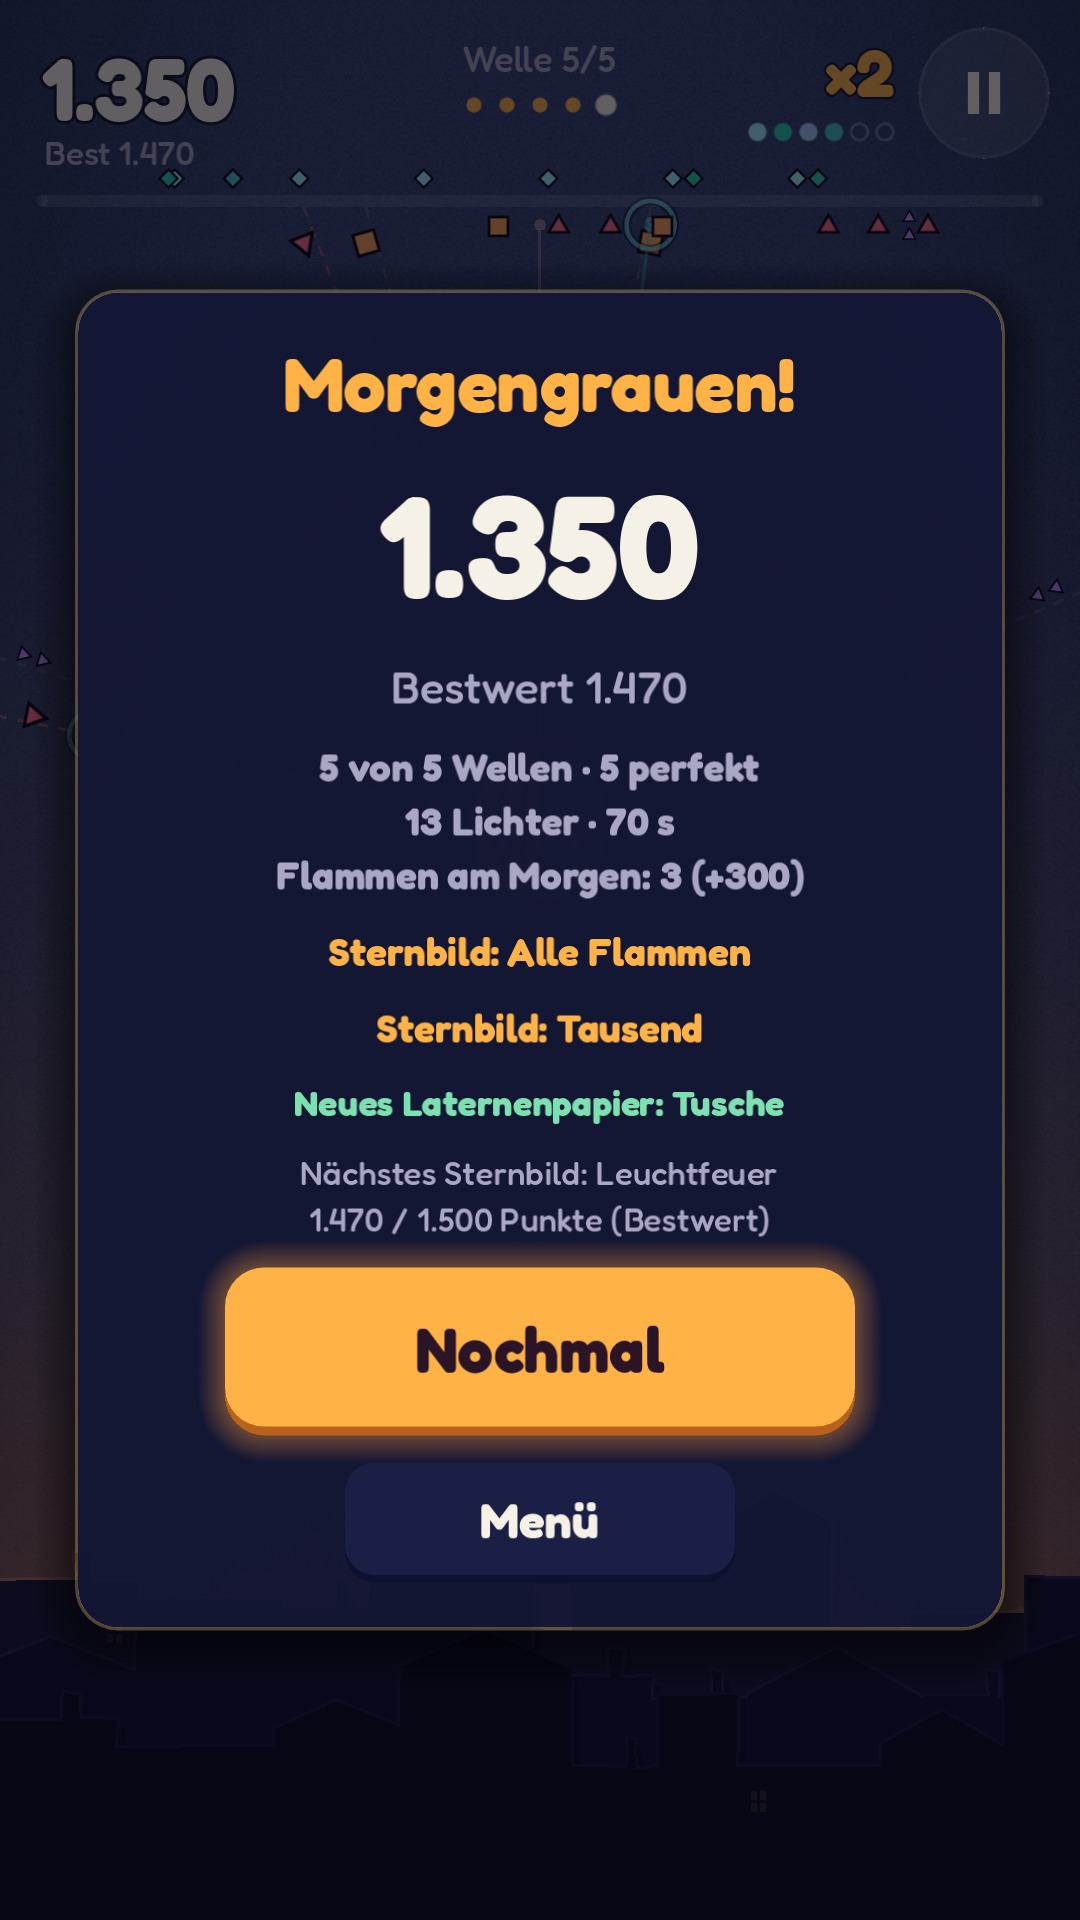
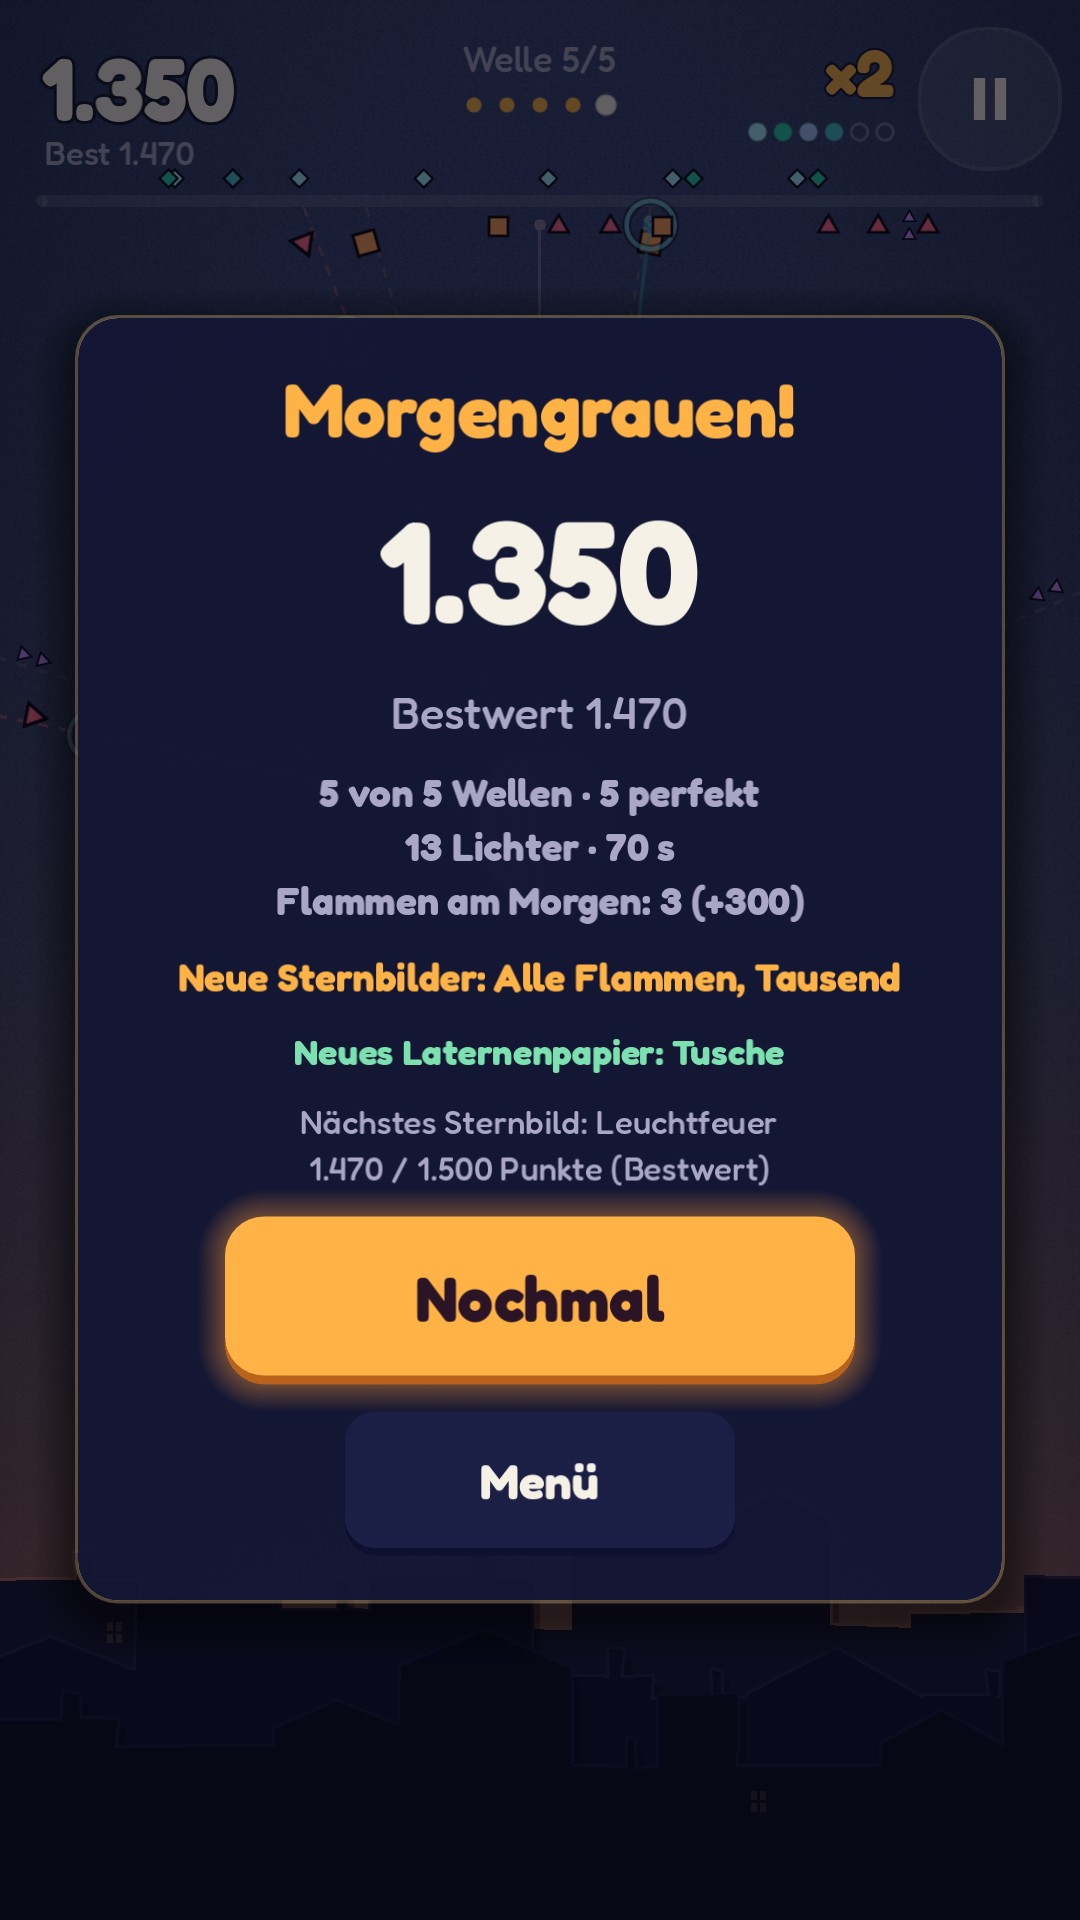
NACHHALL 0.7.0 "Polish": review fixes, accessibility, battery, release tooling
Version 0.7.0 (code 70) in the project and all Android presets.

This milestone bundles the work since 0.6.0 (see CHANGELOG):
- Two independent reviews worked off, every finding confirmed before the
  fix: thumb hand-over and two-light cap, consent refreshed at every
  launch in the ads test build (UMP 4), cancellable consent flow, safer
  saves (retry, last good copy), sound only with focus, results card fit,
  texts, old saves, history chart
- Accessibility: large text, 48 dp touch targets everywhere, really calm
  "minimal" effects (no flashes, shockwaves or flicker; <= 2 Hz), safe
  areas on every page, rules page
- Battery: screen on only while a night is played, 30 fps in pause and
  results on phones, cached safe-area query, menu bot planning in slices
- Release tooling: App Bundle preset and verification script, CI checks
  for the default APK and the bundle, layout check, store screenshots
  refreshed

Checked: tests 173/173, layout check 11 screens x 4 sizes (normal and
large text) clean, soak 30 nights flat, smoke test of the exported build
OK. Built and verified: debug APK (60,203,751 bytes, only VIBRATE, no ads
SDK), ads test APK (Google test ids only), release bundle (valid, not
debuggable, signed with a throwaway key for the check only). Nothing was
run on a real Android device or emulator.

Claude-Session: https://claude.ai/code/session_01EkExG2E5hRojVVTeydidGd

diff --git a/GAME_DESIGN.md b/GAME_DESIGN.md
@@ -30,7 +30,8 @@ Eine **Nacht** = 5 Wellen. Drei Flammen. Ohne Flammen ist die Nacht vorbei; wer 
 | Nachglühen | 1,0 s | macht „zwei Orte zugleich“ zur echten Aufgabe |
 | Echo | wiederholt Weg **und** Trefferzeitpunkte exakt (feste Ereignisse) | vorhersagbar, monoton |
 | Multiplikator | nach Zahl der Lichter: ×6 / ×4 / ×3 / ×2 / ×1,5 / ×1; max. 6 Lichter je Welle | Push-your-luck |
-| Zweiter Finger | entzündet nach bewusstem Zug (≥ 40 px) ein zweites Licht im selben Lauf; zählt wie ein Lauf | Multitouch mit Nutzen, kein Exploit |
+| Zweiter Finger | entzündet nach bewusstem Zug (≥ 40 px) ein zweites Licht im selben Lauf; zählt wie ein Lauf; höchstens zwei Lichter gleichzeitig | Multitouch mit Nutzen, kein Exploit |
+| Daumenwechsel | hebt der lenkende Finger ab, übernimmt ein schon ruhender Finger sein Licht (kein neues Licht, nichts friert ein) | Umgreifen mit beiden Daumen ist normal |
 | Leben | 3 Flammen; Durchgekommene kosten beim Kassieren je eine | Risiko ist sichtbar an der Laterne |
 | Punkte | normal 10, Zwilling 15, gepanzert 25 | |
 
@@ -75,6 +76,18 @@ Streuung, damit das Onboarding ungestört bleibt. Bot-Belege: `docs/playtests/EC
 - Fehleingaben: Startring (bewusster Zug), verbrauchte Finger nach Laufende, Kassieren als eigener Button,
   Neustart-Sperre 0,9 s auf dem Ergebnis-Bildschirm.
 
+## 5a. Barrierefreiheit (Stand 0.7)
+- **Form vor Farbe:** Schatten-Typen, Echo-Nummern, Morgengrauen im Verlauf (Sonne) sind auch ohne Farbe
+  unterscheidbar; Farbsehschwächen mit dem Debug-Simulator geprüft (`docs/art/ART_REVIEW_0.4.md`).
+- **Effekte voll / reduziert / minimal:** „minimal“ ohne Wackeln, Blitze, Druckwellen und Flackern; kein Element
+  blinkt schneller als 2 Hz. Schlagringe bleiben als ruhige Rückmeldung (sie sind Spielinformation).
+- **Schrift normal / groß** (+20 % für Menüs, Karten, Lehr-Zettel); der HUD im Lauf bleibt bewusst fest.
+- **Touch-Ziele ≥ 48 dp** auf 360-dp-Telefonen (`UiTheme.TOUCH_MIN`), sichere Bildschirmränder auf allen Seiten.
+- **Ohne Ton spielbar** (alles Hörbare auch sichtbar), Vibration abschaltbar, Lautstärken getrennt.
+- **Motorik:** relative Steuerung mit drei Empfindlichkeiten, Daumenwechsel ohne Strafe, zweites Licht abschaltbar,
+  bewusste Gesten statt Antippen für folgenreiche Aktionen (Startring, Kassieren-Knopf).
+- Nicht vorhanden: Bildschirmleser-Unterstützung (Godot 4.7 bietet sie auf Android nicht).
+
 ## 6. Onboarding (ohne Tutorial-Bildschirme)
 Die Lehr-Welle lehrt selbst. Hinweise erscheinen einmalig im Moment, in dem sie gebraucht werden (gespeichert);
 als Zettel in der nächsten Pause, wobei der neueste gewinnt (ein Zettel gilt erst nach 1 s Sichtbarkeit als gelesen):
@@ -95,8 +108,8 @@ Kassieren-Button erst angeboten, nachdem man ein Echo gesehen hat.
   **Leitmotiv**: reihum Ketten, Zangen oder Regen – im Menü angekündigt, kein Streak, keine Strafe fürs Auslassen.
 - **Nächstes Ziel** auf der Ergebniskarte: das nächstliegende offene Sternbild mit Fortschritt („18 / 25 perfekte
   Wellen“) – konkret, ohne Uhr und ohne Druck.
-- **Nacht-Historie** auf der Seite „Sternbilder“: die letzten 15 Nächte als Balken (warm = Morgengrauen), Bestwert-Linie,
-  Durchschnitt der letzten 10 – Fortschritt sichtbar machen statt Tage zählen.
+- **Nacht-Historie** auf der Seite „Sternbilder“: die letzten 15 Nächte als Balken (warm mit Sonne = Morgengrauen, Ring =
+  Vollmond), Bestwert-Linie, Durchschnitt der letzten 10 – Fortschritt sichtbar machen statt Tage zählen.
 - Persönlicher Bestwert je Modus, Statistiken auf der Seite „Sternbilder“.
 - **Sternbilder** (10 Achievements) schalten **rein kosmetische** Laternenpapiere frei – kein Spielvorteil.
 - **Vollmond** (schwerer, freigeschaltet durch das erste Morgengrauen) als Ziel für Geübte.
@@ -104,9 +117,9 @@ Kassieren-Button erst angeboten, nachdem man ein Echo gesehen hat.
 
 ## 9. Werbung (umgesetzt als Vorschau in 0.6, ADR 0004)
 - Nie während eines Laufs, nie direkt nach dem ersten Start, nie bei jedem Verlust.
-- Neue Spieler: die ersten 5 Nächte überhaupt werbefrei; pro Sitzung frühestens nach 3 Nächten, danach höchstens jede
-  4. Nacht und nie öfter als alle 5 Minuten (`AdPolicy`, getestet; ungünstigster Fall ≤ 12/h – die ursprünglichen
-  3 Minuten hätten verlierenden Spielern bis zu 20/h erlaubt). Nur beim Verlassen der Ergebniskarte, nie beim Abbruch
+- Neue Spieler: die ersten 5 Nächte überhaupt werbefrei; pro Sitzung frühestens nach der 4. Nacht, danach höchstens
+  jede 4. Nacht und nie öfter als alle 5 Minuten, auch über App-Neustarts (`AdPolicy`, getestet; ungünstigster Fall
+  ≤ 12/h – die ursprünglichen 3 Minuten hätten verlierenden Spielern bis zu 20/h erlaubt). Nur beim Verlassen der Ergebniskarte, nie beim Abbruch
   über das Pausemenü. Einwilligung wird erst nach der zweiten Nacht erfragt, nicht beim ersten Start;
   Rewarded nur auf Wunsch und rein kosmetisch (ein gesperrtes Laternenpapier eine Nacht lang). Werbung vollständig
   abschaltbar; Spiel funktioniert ohne Netz. Details und Frequenz-Analyse: `docs/compliance/ADS_AND_CONSENT.md`.

diff --git a/ARCHITECTURE.md b/ARCHITECTURE.md
@@ -76,8 +76,12 @@ dass alte Runden freigegeben werden).
 
 ## Speicherstand
 `SaveStore`: ein JSON-Dokument in `user://save.json` mit Schema-Version (aktuell 2). Schreiben über Temp-Datei +
-Umbenennen (atomar). Unbekannte Schlüssel fallen weg, fehlende werden ergänzt, defekte Dateien werden beiseitegelegt.
-Bei App-Pause wird sofort gespeichert. Debug-Builds können per Startargument `save=<datei>` (und `fresh_save`) eine
+Umbenennen (atomar); die vorherige Datei bleibt als `save.json.bak` (letzte gute Kopie – GDScript kann kein fsync,
+nach einem Stromausfall kann die neueste Datei leer sein). Laden: Hauptdatei, sonst die Kopie, sonst Standardwerte;
+defekte Dateien werden beiseitegelegt (`.corrupt`). Unbekannte Schlüssel fallen weg, fehlende werden ergänzt,
+Sternbilder, die die Statistik belegt, werden nachgetragen (`Progression.backfill`). Änderungen werden am Ende des
+Frames gebündelt gespeichert; nach einem fehlgeschlagenen Schreiben versucht es die nächste Änderung erneut. Bei
+App-Pause wird sofort gespeichert. Debug-Builds können per Startargument `save=<datei>` (und `fresh_save`) eine
 eigene Datei nutzen – Tests, Aufnahmen und Smoke-Test berühren so nie echte Spielstände.
 
 ## Zurück-Taste und sicherer Bereich
@@ -85,14 +89,32 @@ eigene Datei nutzen – Tests, Aufnahmen und Smoke-Test berühren so nie echte S
   (`quit_on_go_back` ist aus). `handle_back()` fragt den obersten sichtbaren Knoten der Gruppe `back_handler`
   (`on_back()`): Spiel → Pause/Weiter, Overlays → schließen, Hauptmenü → App verlassen.
 - `SafeArea` rechnet `DisplayServer.get_display_safe_area()` in Viewport-Einheiten um: HUD und Spielfeld rücken unter
-  eine Kamera-Aussparung, der Kassieren-Button über die Gestenleiste. Tests setzen `SafeArea.override`.
+  eine Kamera-Aussparung, der Kassieren-Button über die Gestenleiste, alle Seiten halten Abstand. Das Ergebnis wird
+  eine Sekunde lang wiederverwendet (auf Android ist jede Abfrage ein JNI-Aufruf, der HUD fragt jeden Frame). Tests
+  setzen `SafeArea.override`.
+- Oberfläche: `UiTheme` baut das Theme im Code; `TOUCH_MIN` (96 Einheiten = 48 dp auf 360-dp-Telefonen) ist die
+  Mindesthöhe jedes Knopfes, `fs()` skaliert Schriftgrößen mit der Einstellung „Schrift“ (`text_scale`, gesetzt von
+  `GameFlow` vor dem ersten Bildschirm).
 
 ## Lebenszyklus (Android)
-- `NOTIFICATION_APPLICATION_PAUSED` / `FOCUS_OUT`: laufender Lauf → Pause-Menü; sonst alle Zeiger abbrechen;
-  `AudioDirector` stummt den Master-Bus; `SaveStore` speichert sofort.
-- Zurückkehren: Ton wieder an (Stummschaltung aus den Einstellungen bleibt), Spiel bleibt pausiert bis „Weiter“.
+- `NOTIFICATION_APPLICATION_PAUSED` / `FOCUS_OUT`: laufender Lauf → Pause-Menü; sonst alle Zeiger abbrechen (sie
+  zählen erst nach dem Abheben wieder); `AudioDirector` stummt den Master-Bus; `SaveStore` speichert sofort.
+- Zurückkehren: Ton erst wieder an, wenn die App fortgesetzt **und** fokussiert ist (nicht hinter dem
+  Sperrbildschirm); die Stummschaltung aus den Einstellungen bleibt; das Spiel bleibt pausiert bis „Weiter“.
+- Akku (nur Telefone): `EchoGame.power_for(state)` – Bildschirm bleibt nur während einer Nacht an
+  (`screen_set_keep_on`), Pause und Ergebnis rendern mit 30 fps; Menüs lassen das Telefon schlafen.
+
+## Werbung (Kurzfassung, Details in ADR 0004 und `docs/compliance/`)
+- `AdService` (Autoload `Ads`) mit Adaptern `none` / `mock` (Platzhalter, Debug) / `admob` (Werbetest-Build, eigenes
+  Plugin). Hauptschalter aus → kein Adapter; ein Adapter startet erst, wenn Werbung eingeschaltet ist (`start()`).
+- AdMob/UMP: Aktualisierung der Einwilligungsinformationen bei jedem Start (ohne Formular); die frische Auskunft
+  synchronisiert den gespeicherten Stand (`consent_info_changed`); Formular nur an einer Pause, abbrechbar
+  (`cancel_consent`); Anzeigen nur mit Entscheidung. `AdPolicy` entscheidet die Frequenz (Zeitabstand auch über
+  Neustarts, `ads.last_interstitial_unix`).
 
 ## Tests und Werkzeuge
 Siehe `TEST_REPORT.md`. Kurz: Unit- und Integrationstests (echte Touch-Pipeline), Compile-Check aller Skripte,
-Bot-Simulationen mit automatisch geprüften Abnahmekriterien, Smoke-Test im exportierten Build, Video-Aufnahme unter
-Xvfb, APK-Prüfung mit aapt2/apksigner, CI auf GitHub Actions.
+Bot-Simulationen mit automatisch geprüften Abnahmekriterien, Smoke-Test im exportierten Build, Dauertest über 30
+Nächte (`tools/soak.sh`), Layout-Prüfung jeder Seite in vier Bildschirmgrößen (`tools/layout_check.sh`),
+Video-Aufnahme unter Xvfb, APK-Prüfung mit aapt2/apksigner, Werbe-SDK-Prüfung (`tools/verify_ads_build.sh`),
+Release-Bundle mit bundletool (`tools/build_release.sh`), CI auf GitHub Actions.

diff --git a/TEST_REPORT.md b/TEST_REPORT.md
@@ -13,8 +13,29 @@ als getestet.** Bots und Simulationen sind keine Menschen.
 | Simulation | `tests/simulation/sim_echo.gd` + `tools/sim/summarize_echo.py` (Abnahmekriterien automatisch) |
 | Bild/Video | `tools/capture.sh` (Xvfb + llvmpipe, Godot Movie Maker): Bot spielt über die echte Touch-Pipeline |
 | APK-Prüfung | `tools/build_android.sh`: aapt2 (Paket, SDK, Berechtigungen, Icon), apksigner (Signatur), Liste nativer Bibliotheken |
-| CI | GitHub Actions `.github/workflows/android.yml`: Tests, Smoke-Test, APK-Export, Artefakt-Upload |
+| CI | GitHub Actions `.github/workflows/android.yml`: Tests, Smoke-Test, APK-Export, Werbe-SDK-Prüfung des Standard-APK, Release-Bundle (Wegwerf-Schlüssel) mit Prüfung, Artefakt-Upload |
 | Android-Gerät / Emulator | **nicht verfügbar** (keine KVM, kein Gerät). Gerätetests: `docs/playtests/DEVICE_TEST_PLAN.md` |
+
+## 0.7.0 (2026-10-23)
+
+| Prüfung | Befehl | Ergebnis |
+|---|---|---|
+| Unit- und Integrationstests | `run_tests.gd` | **173 / 173 grün**. Neu u. a. (jeweils geprüft, dass der Test ohne die Korrektur fehlschlägt): Daumenwechsel übernimmt das Licht (mit und ohne „Zweiter Finger“), höchstens zwei Lichter; Spielstand: letzte gute Kopie nach kaputter neuester Datei, erneuter Versuch nach fehlgeschlagenem Schreiben; Werbung: UMP-4-artiges Fake-Plugin, späterer App-Start bekommt Anzeigen ohne zweite Frage, abgelaufene Entscheidung wird neu erfragt, offline wartet die Pause nicht, verspätete Antwort bleibt synchron, Hauptschalter → kein Backend, Zeitabstand über Neustarts. Außerdem: Effekt-Stufen (minimal ohne Blitze/Druckwellen/Flackern, ≤ 2 Hz), Touch-Ziele ≥ 48 dp auf allen Seiten, sichere Ränder für alle Seiten, große Schrift (alle Seiten passen, Ergebniskarte mit allen Freischaltungen passt), Ton erst mit Fokus, Leihpapier, Texte, alte Spielstände |
+| Layout-Prüfung | `tools/layout_check.sh` und `tools/layout_check.sh <dir> text=1.2` | 11 Seiten × 4 Größen (720×1280, 1080×2400, 480×854, 1536×2048), normal und groß: **kein** Element außerhalb des Bildschirms, keine Überlappung, kein Touch-Ziel unter 48 dp (`docs/media/nachhall_0.7.0_large_text.jpg`) |
+| Dauertest | `tools/soak.sh` (30 Bot-Nächte, echte Spielszene) | `SOAK OK`: Knoten 49 → 49, Objekte +8, Ressourcen 93 → 93, verwaiste Knoten 0, Speicher 41,7 → 42,6 MB, keine Fehler |
+| Smoke-Test exportierter Build | `tools/smoke_exported.sh` | `SMOKE OK` (alle Szenen, Bot-Nacht, Werbe-Platzhalter mit Einwilligung und Interstitial) |
+| Demo-Bot im Menü | Messskript (headless, Desktop, 120 Läufe) | Planung bisher 2,13 ms Median / 3,54 ms Spitze in einem Frame; jetzt 0,31 / 1,18 ms pro Frame, verteilt |
+| Standard-APK | `tools/build_android.sh game builds/android/nachhall-0.7.0-debug.apk debug` | 60.203.751 Bytes, SHA-256 `501b38a2…a707`, versionCode 70, Signatur gültig (Debug), nur `VIBRATE`, **0 Werbe-SDK-Klassen, kein `INTERNET`** |
+| Werbetest-APK | `tools/build_ads_test.sh builds/android/nachhall-adstest-0.7.0-debug.apk` | 70.797.415 Bytes, SHA-256 `350b382c…2e9b`, Plugin mit neuen Methoden (`refresh_consent`, `cancel_consent`, `is_privacy_options_required`, dexdump), verpackte `ads.json` nur mit Google-Test-IDs |
+| Release-Bundle | `tools/build_release.sh builds/release/nachhall-0.7.0-release.aab --throwaway` | 54.933.897 Bytes, SHA-256 `ba181385…7766`, `bundletool validate`: gültig, versionCode 70, minSdk 24, targetSdk 36, nur `VIBRATE`; Universal-APK daraus: nicht debuggable, apksigner ok; 242 Projektdateien, 0 aus `tests/`/`prototypes/`. **Mit Wegwerf-Schlüssel signiert – nur Prüfung, nicht hochladen.** |
+| CI | GitHub Actions | prüft jetzt zusätzlich Standard-APK ohne Werbe-SDK und das Release-Bundle (Lauf für `b2820e9` grün) |
+
+Berichte: `docs/builds/nachhall-0.7.0-*`, `docs/builds/nachhall-adstest-0.7.0-*`.
+
+**Nicht getestet:** alles auf einem echten Gerät – insbesondere Daumenwechsel mit echten Fingern, Bildschirm-Timeout
+in Pause/Ergebnis, Ton hinter dem Sperrbildschirm, Lesbarkeit von „Schrift: groß“, die Werbetest-APK mit UMP und
+Testanzeigen (Neustart-Fall, langsames Netz) und die Wirkung der 30-fps-Begrenzung. Checklisten:
+`docs/playtests/DEVICE_TEST_PLAN.md` (neu: B13–B15, C6, C7, G7, G8) und `docs/compliance/ADS_TEST_BUILD.md` §8.
 
 ## 0.6.0 (2026-10-23)
 

diff --git a/ROADMAP.md b/ROADMAP.md
@@ -12,7 +12,7 @@ er bleibt vor jeder Veröffentlichung Pflicht.
 | 0.4 | Visual Identity | Papier-Kunst überarbeitet, UI-Panels im Stil, Lesbarkeit/Kontrast, farbenblind-sichere Formen, Store-Grafiken | erledigt (2026-10-23); vorgezogen: Sternbilder, Laternenpapiere, Vollmond, Tagesnacht-Nummer |
 | 0.5 | Replayability | Wellen-Formationen (Kette, Zange, Regen), Tagesnacht mit Leitmotiv, nächstes Ziel auf der Ergebniskarte, Nacht-Historie; dazu Draw-Call-Optimierung (aus 0.7 vorgezogen) | erledigt (2026-10-23) |
 | 0.6 | Monetization Preview | modularer `AdService` (Platzhalter + AdMob-Test-Adapter), Einwilligungsablauf, Interstitial nur an natürlichen Pausen, optionales kosmetisches Rewarded, Offline-Verhalten, Werbetest-APK, Datenschutz-/Data-Safety-Entwürfe | erledigt (2026-10-23) |
-| 0.7 | Polish | Leistung, Barrierefreiheit, Fehlerbehebung, UI-/Audio-Politur | geplant |
+| 0.7 | Polish | unabhängige QA- und Werbe-Prüfung abgearbeitet (Daumenwechsel, Einwilligung bei jedem Start, Spielstand-Sicherung u. a.), Barrierefreiheit (Schrift groß, 48-dp-Ziele, ruhige Effekte), Akku, Layout-Prüfung, Release-Bundle-Werkzeug | erledigt (2026-10-23) |
 | 0.8 | Release Candidate | Lebenszyklus-Tests, Store-Konfiguration (Release-Signatur durch Inhaber), Dokumentation, Abschlussbericht | geplant |
 
 ## Bewusst nicht ohne Freigabe des Inhabers

diff --git a/README.md b/README.md
@@ -27,6 +27,9 @@ godot --headless --path game --script res://tests/run_tests.gd          # Tests
 tools/smoke_exported.sh                       # exportierter Linux-Build spielt eine Nacht mit Bot
 tools/build_android.sh game builds/android/nachhall-debug.apk debug   # APK bauen + prüfen
 tools/build_ads_test.sh builds/android/nachhall-adstest-debug.apk     # Werbetest-APK (Gradle, Google-Test-IDs)
+tools/build_release.sh builds/release/nachhall-release.aab              # Release-Bundle (Upload-Schlüssel per Umgebung; --throwaway nur zur Prüfung)
+tools/soak.sh                                 # Dauertest: 30 Bot-Nächte, Speicher/Knoten müssen flach bleiben
+tools/layout_check.sh [out_dir] [text=1.2]    # jede Seite in 4 Bildschirmgrößen: Überlauf, Überlappung, < 48 dp
 godot --headless --path game --script res://tests/simulation/sim_echo.gd -- 40 7000 600 | python3 tools/sim/summarize_echo.py
 tools/capture.sh /tmp/cap 40 scene=res://scenes/gameplay/echo_game.tscn profile=early seed=11   # Video
 python3 tools/audio/make_nachhall_audio.py && python3 tools/audio/analyze_audio.py --report docs/audio/AUDIO_REPORT.md
